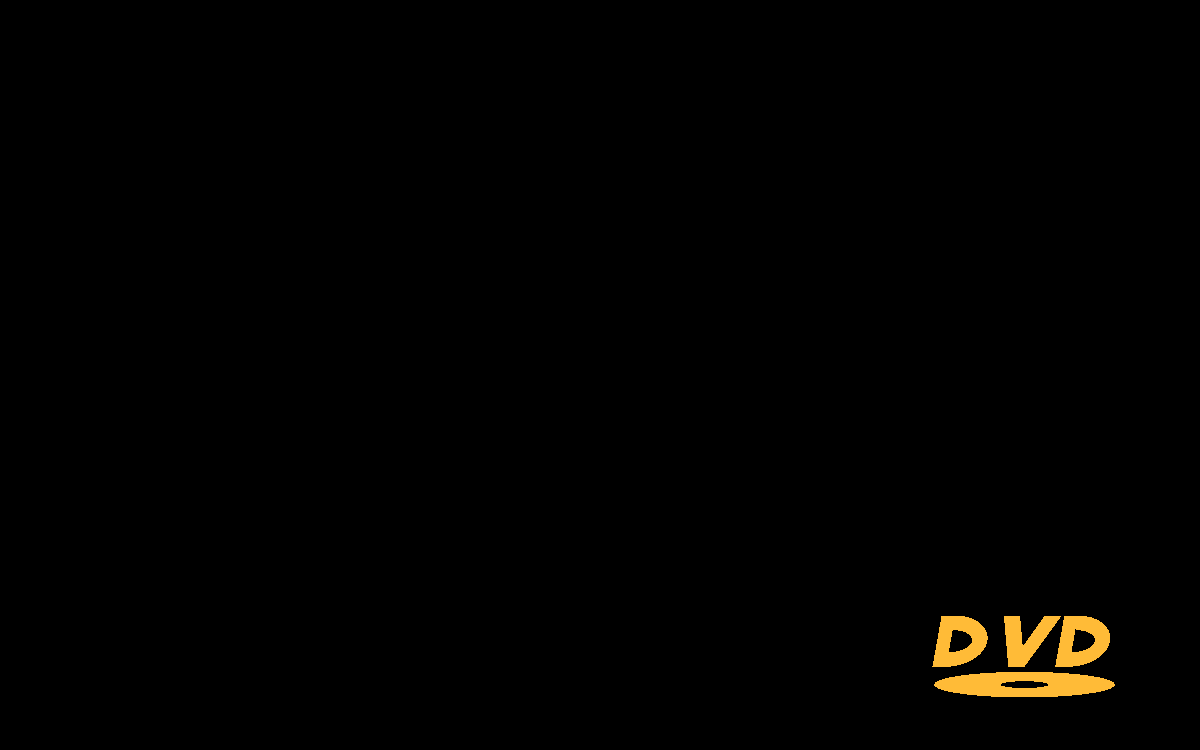
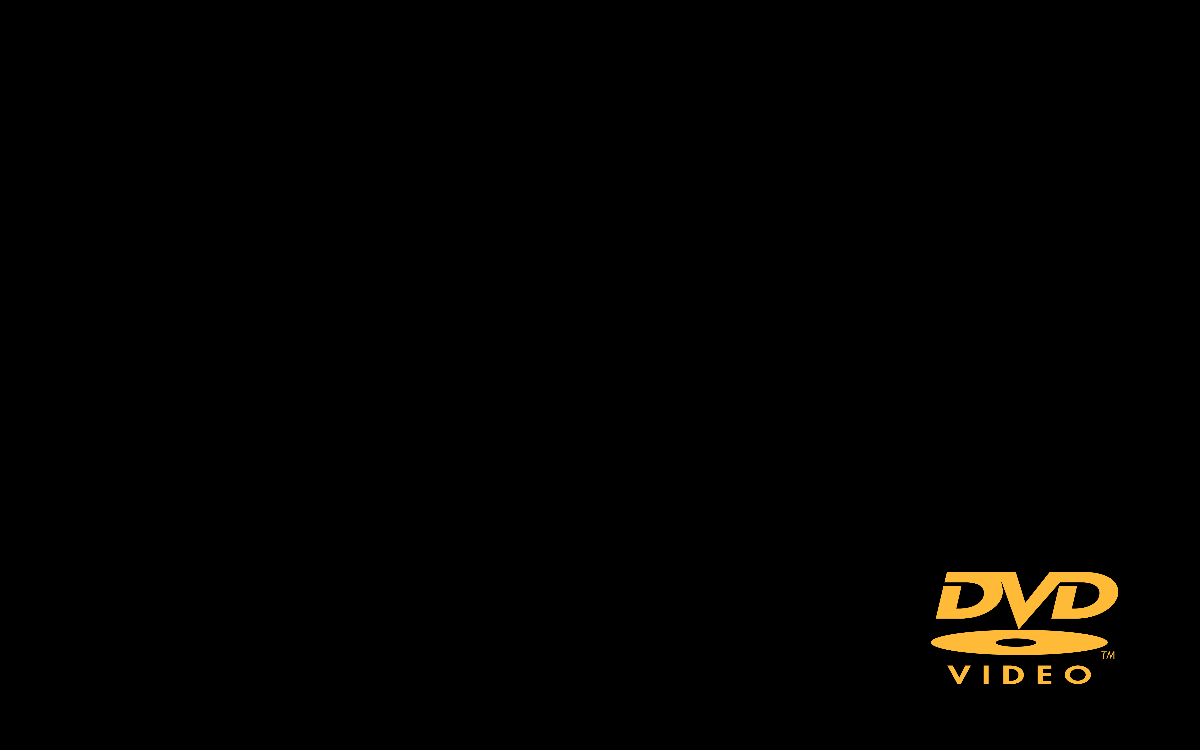
Use transparent DVD-Video PNG with accurate lettering and smooth tinted edges

Changed region(s): [[0.7708, 0.736, 0.9558, 0.9507]]

diff --git a/source/Pipes.cs b/source/Pipes.cs
@@ -176,7 +176,7 @@ class Scene {
 
 class PipesWindow : Form {
     Settings settings,template; Random runRandom=new Random(Guid.NewGuid().GetHashCode()); string mode; Rectangle bounds; public IntPtr DesktopParent;
-    IntPtr dc,rc,quad; uint sphere,cylinder,teapot; Timer timer; Stopwatch clock=new Stopwatch(); double last; Point mouse; bool cursorHidden;
+    IntPtr dc,rc,quad; uint sphere,cylinder,teapot,dvdTexture; Timer timer; Stopwatch clock=new Stopwatch(); double last; Point mouse; bool cursorHidden;
     internal Effects Effects; double effectDuration,worldHeightScale=1;
     PipesWindow sceneOwner; Rectangle? sharedCanvas; bool reconfiguring; event Action FrameReady;
     internal PipesWindow SceneOwner { get { return sceneOwner??this; } }
@@ -310,8 +310,9 @@ class PipesWindow : Form {
             foreach(var s in Scene.Segments) DrawSegment(s,1);
             foreach(var p in Scene.Pipes) if(p.Growing!=null) DrawSegment(p.Growing,Math.Min(1,p.Progress));
         }
-        if(sharedCanvas.HasValue) Effects.Draw((double)sharedCanvas.Value.Width/sharedCanvas.Value.Height,DisplayLayout.Slice(sharedCanvas.Value,bounds,1));
-        else Effects.Draw(aspect);
+        if(Effects.Dvd!=null&&dvdTexture==0) dvdTexture=DvdTexture.Create();
+        if(sharedCanvas.HasValue) Effects.Draw((double)sharedCanvas.Value.Width/sharedCanvas.Value.Height,DisplayLayout.Slice(sharedCanvas.Value,bounds,1),dvdTexture);
+        else Effects.Draw(aspect,null,dvdTexture);
         GL.glFlush(); if(swap) Native.SwapBuffers(dc);
     }
     public void SaveFrame(string path) {
@@ -328,7 +329,7 @@ class PipesWindow : Form {
     protected override void OnFormClosed(FormClosedEventArgs e) {
         ready=false; if(timer!=null) timer.Dispose(); if(cursorHidden) Cursor.Show();
         if(sceneOwner!=null) sceneOwner.FrameReady-=OnSharedFrame;
-        if(rc!=IntPtr.Zero) { GL.wglMakeCurrent(dc,rc); if(sphere!=0) GL.glDeleteLists(sphere,3); if(quad!=IntPtr.Zero) GL.gluDeleteQuadric(quad); GL.wglMakeCurrent(IntPtr.Zero,IntPtr.Zero); GL.wglDeleteContext(rc); }
+        if(rc!=IntPtr.Zero) { GL.wglMakeCurrent(dc,rc); if(dvdTexture!=0) GL.glDeleteTextures(1,ref dvdTexture); if(sphere!=0) GL.glDeleteLists(sphere,3); if(quad!=IntPtr.Zero) GL.gluDeleteQuadric(quad); GL.wglMakeCurrent(IntPtr.Zero,IntPtr.Zero); GL.wglDeleteContext(rc); }
         if(dc!=IntPtr.Zero) Native.ReleaseDC(Handle,dc); base.OnFormClosed(e);
         if(mode=="saver"&&!reconfiguring) Application.Exit();
     }
@@ -688,6 +689,13 @@ static class GL {
     [DllImport("opengl32.dll")] public static extern void glColor3f(float r,float g,float b);
     [DllImport("opengl32.dll")] public static extern void glPushMatrix();
     [DllImport("opengl32.dll")] public static extern void glPopMatrix();
+    [DllImport("opengl32.dll")] public static extern void glGenTextures(int count,out uint texture);
+    [DllImport("opengl32.dll")] public static extern void glDeleteTextures(int count,ref uint texture);
+    [DllImport("opengl32.dll")] public static extern void glBindTexture(uint target,uint texture);
+    [DllImport("opengl32.dll")] public static extern void glTexParameteri(uint target,uint name,int value);
+    [DllImport("opengl32.dll")] public static extern void glPixelStorei(uint name,int value);
+    [DllImport("opengl32.dll")] public static extern void glTexImage2D(uint target,int level,int internalFormat,int width,int height,int border,uint format,uint type,byte[] pixels);
+    [DllImport("opengl32.dll")] public static extern void glTexCoord2d(double s,double t);
     [DllImport("opengl32.dll")] public static extern uint glGenLists(int range);
     [DllImport("opengl32.dll")] public static extern void glNewList(uint list,uint mode);
     [DllImport("opengl32.dll")] public static extern void glEndList();

diff --git a/source/DvdLogo.cs b/source/DvdLogo.cs
@@ -2,8 +2,7 @@ using System;
 using System.Drawing;
 
 namespace RetroPipes {
-// Original vector recreation: slanted DVD lettering and the elliptical disc.
-// Geometry stays inside the 220 x 100 drawing box used for edge collisions.
+// Bouncing DVD-Video PNG; its original aspect ratio also defines the hit box.
 class DvdLogo {
     public double X,Y,VX,VY;
     public readonly double HalfWidth,HalfHeight;
@@ -12,7 +11,7 @@ class DvdLogo {
     readonly double aspect; readonly Random random;
     public DvdLogo(Random rng,double ratio) {
         random=rng; aspect=ratio;
-        HalfWidth=Math.Min(0.25,aspect*0.38); HalfHeight=HalfWidth*100/220;
+        HalfWidth=Math.Min(0.25,aspect*0.38); HalfHeight=HalfWidth*DvdTexture.AspectRatio;
         X=(rng.NextDouble()*2-1)*(aspect-HalfWidth); Y=(rng.NextDouble()*2-1)*(1-HalfHeight);
         VX=(rng.Next(2)==0?-1:1)*0.18; VY=(rng.Next(2)==0?-1:1)*0.13;
         Colour=Effects.Hue(rng.NextDouble());
@@ -37,34 +36,18 @@ class DvdLogo {
             Colour=next;
         }
     }
-    static void Vertex(double x,double y) { GL.glVertex3d(x,y,0); }
-    static void LetterVertex(double x,double y) { Vertex(x+(y-38)*0.18,y); }
-    static void D(double x) {
-        GL.glBegin(7); LetterVertex(x,38); LetterVertex(x+16,38); LetterVertex(x+16,98); LetterVertex(x,98); GL.glEnd();
-        GL.glBegin(5);
-        for(int i=0;i<=40;i++) {
-            double a=Math.PI/2-i*Math.PI/40;
-            LetterVertex(x+16+43*Math.Cos(a),68+30*Math.Sin(a));
-            LetterVertex(x+16+25*Math.Cos(a),68+13*Math.Sin(a));
-        }
-        GL.glEnd();
-    }
-    public void Draw() {
+    public void Draw(uint texture) {
         GL.glBlendFunc(0x0302,0x0303); GL.glColor4f(Colour.R/255f,Colour.G/255f,Colour.B/255f,1);
-        GL.glPushMatrix(); GL.glTranslated(X-HalfWidth,Y-HalfHeight,0); GL.glScaled(HalfWidth*2/220,HalfHeight*2/100,1);
-        D(2); D(146);
+        GL.glEnable(0x0DE1); GL.glBindTexture(0x0DE1,texture);
+        double left=X-HalfWidth,right=X+HalfWidth,top=Y+HalfHeight,bottom=Y-HalfHeight;
         GL.glBegin(7);
-        LetterVertex(75,98); LetterVertex(94,98); LetterVertex(110,38); LetterVertex(91,38);
-        LetterVertex(91,38); LetterVertex(110,38); LetterVertex(143,98); LetterVertex(123,98);
-        GL.glEnd();
-        GL.glBegin(5);
-        for(int i=0;i<=96;i++) {
-            double a=i*Math.PI/48;
-            Vertex(110+106*Math.Cos(a),17+15*Math.Sin(a));
-            Vertex(110+28*Math.Cos(a),17+4*Math.Sin(a));
-        }
-        GL.glEnd(); GL.glPopMatrix();
+        GL.glTexCoord2d(0,0); GL.glVertex3d(left,top,0);
+        GL.glTexCoord2d(DvdTexture.U,0); GL.glVertex3d(right,top,0);
+        GL.glTexCoord2d(DvdTexture.U,DvdTexture.V); GL.glVertex3d(right,bottom,0);
+        GL.glTexCoord2d(0,DvdTexture.V); GL.glVertex3d(left,bottom,0);
+        GL.glEnd(); GL.glBindTexture(0x0DE1,0); GL.glDisable(0x0DE1);
     }
+
 }
 struct CameraPose { public double Pitch,Yaw,Roll,AimX,AimY; }
 }

diff --git a/source/DvdTexture.cs b/source/DvdTexture.cs
@@ -1,0 +1,36 @@
+using System;
+using System.Drawing;
+using System.Reflection;
+
+namespace RetroPipes {
+static class DvdTexture {
+    static readonly byte[] alpha;
+    static readonly int width,height,textureWidth,textureHeight;
+    public static double AspectRatio { get { return (double)height/width; } }
+    public static double U { get { return (double)width/textureWidth; } }
+    public static double V { get { return (double)height/textureHeight; } }
+    static DvdTexture() {
+        using(var stream=Assembly.GetExecutingAssembly().GetManifestResourceStream("RetroPipes.DVDVideo"))
+        using(var bitmap=new Bitmap(stream)) {
+            width=bitmap.Width; height=bitmap.Height;
+            textureWidth=PowerOfTwo(width); textureHeight=PowerOfTwo(height);
+            alpha=new byte[textureWidth*textureHeight];
+            // Use the PNG's coverage as a mask so each bounce can tint the logo.
+            // Transparent holes and antialiased edges remain transparent.
+            for(int y=0;y<height;y++) for(int x=0;x<width;x++) alpha[y*textureWidth+x]=bitmap.GetPixel(x,y).A;
+        }
+    }
+    static int PowerOfTwo(int value) { int result=1; while(result<value) result*=2; return result; }
+    public static uint Create() {
+        uint texture; GL.glGenTextures(1,out texture);
+        if(texture==0) throw new Exception("Could not allocate the DVD logo texture.");
+        GL.glBindTexture(0x0DE1,texture);
+        GL.glTexParameteri(0x0DE1,0x2801,0x2601); GL.glTexParameteri(0x0DE1,0x2800,0x2601);
+        GL.glTexParameteri(0x0DE1,0x2802,0x812F); GL.glTexParameteri(0x0DE1,0x2803,0x812F);
+        GL.glPixelStorei(0x0CF5,1);
+        GL.glTexImage2D(0x0DE1,0,0x1906,textureWidth,textureHeight,0,0x1906,0x1401,alpha);
+        GL.glBindTexture(0x0DE1,0); GL.glPixelStorei(0x0CF5,4);
+        return texture;
+    }
+}
+}

diff --git a/source/Effects.cs b/source/Effects.cs
@@ -72,7 +72,7 @@ class Effects {
         }
     }
     static void Colour(Color c,double alpha) { GL.glColor4f(c.R/255f,c.G/255f,c.B/255f,(float)alpha); }
-    public void Draw(double ratio,double[] clip=null) {
+    public void Draw(double ratio,double[] clip=null,uint dvdTexture=0) {
         aspect=Math.Max(0.4,ratio);
         GL.glDisable(0x0B50); GL.glDisable(0x0B71); GL.glEnable(0x0BE2);
         GL.glMatrixMode(0x1701); GL.glPushMatrix(); GL.glLoadIdentity();
@@ -80,7 +80,7 @@ class Effects {
         GL.glMatrixMode(0x1700); GL.glPushMatrix(); GL.glLoadIdentity();
         if(settings.Fireworks) DrawFireworks();
         if(settings.Bubbles) DrawBubbles();
-        if(Dvd!=null) Dvd.Draw();
+        if(Dvd!=null) Dvd.Draw(dvdTexture);
         GL.glPopMatrix(); GL.glMatrixMode(0x1701); GL.glPopMatrix(); GL.glMatrixMode(0x1700);
         GL.glDisable(0x0BE2); GL.glEnable(0x0B71); GL.glEnable(0x0B50);
     }

diff --git a/README.md b/README.md
@@ -6,7 +6,7 @@ Classic-inspired 3D pipes, fireworks, glass bubbles and a bouncing DVD logo. Run
 
 ## Download and run
 
-Download **Retro-Pipes-v1.8.zip** from the [latest release](https://github.com/S0MBRX/retro-pipes/releases/latest), extract it, and open **RetroPipes.exe**.
+Download **Retro-Pipes-v1.8.1.zip** from the [latest release](https://github.com/S0MBRX/retro-pipes/releases/latest), extract it, and open **RetroPipes.exe**.
 
 - **Start wallpaper** animates behind desktop icons. Use its system-tray icon to open controls or stop it.
 - **Try screensaver** fills your displays. Move the mouse or press any key to exit.
@@ -47,7 +47,7 @@ Tick **Drifting camera orbit** for a slow orbit whose pitch gradually moves abov
 
 ### Bouncing DVD logo
 
-Tick **DVD logo** by itself or alongside any other effects. The coloured, slanted DVD lettering and disc are drawn as vector geometry. The whole logo reflects off screen edges, changes colour on impact, and keeps moving through delayed frames without losing the travelled distance. In separate-screen mode, each screen has its own logo and trajectory. In spanning mode, one logo travels across the combined desktop rectangle, crossing internal monitor boundaries naturally. Monitor gaps within that rectangle can temporarily hide the logo.
+Tick **DVD logo** by itself or alongside any other effects. The DVD-Video mark uses an embedded 960-pixel transparent PNG with its original lettering, disc and VIDEO detail, sourced from [Wikimedia Commons](https://commons.wikimedia.org/wiki/File:DVD-Video_Logo.svg). Its alpha channel preserves smooth edges and transparent holes while the renderer applies each bounce colour. The whole logo reflects off screen edges, changes colour on impact, and keeps moving through delayed frames without losing the travelled distance. In separate-screen mode, each screen has its own logo and trajectory. In spanning mode, one logo travels across the combined desktop rectangle, crossing internal monitor boundaries naturally. Monitor gaps within that rectangle can temporarily hide the logo.
 
 **Advanced... → DVD chance** controls whether it appears in randomized scenes. Full Random includes DVD; returning to defaults leaves only pipes selected. A fixed DVD-only scene runs continuously without the other effects' timed resets.
 
